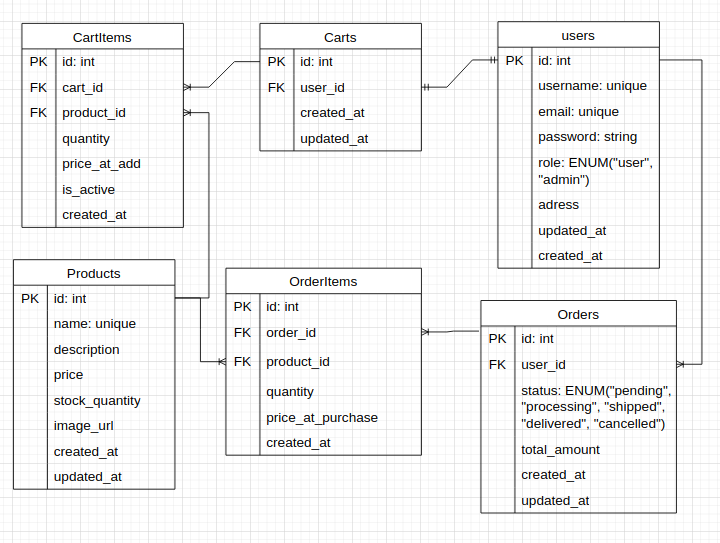
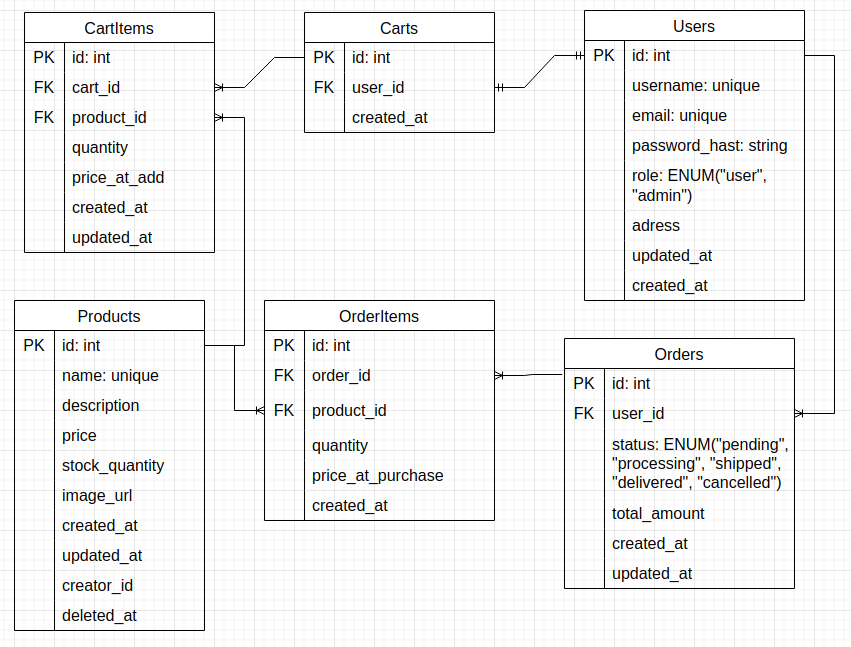
Actualizar README y diagrama entidad-relación

Changed region(s): [[0.0, 0.0, 1.0, 0.9724], [0.3056, 0.0295, 0.6417, 0.2947], [0.0306, 0.9429, 0.2444, 1.0]]

diff --git a/app/controllers/views/orders.py b/app/controllers/views/orders.py
@@ -22,8 +22,6 @@ orders_service = OrdersService()
 async def create_orders(
     current_user: Annotated[dict, Depends(get_current_user)]
 ):
-    # response = orders_service.save(current_user)
-    # response = orders_service.save_internal(current_user)
     response = orders_service.save_async(current_user)
     return JSONResponse(
         status_code=response.pop("status_code"),

diff --git a/app/controllers/views/products.py b/app/controllers/views/products.py
@@ -51,7 +51,7 @@ async def create_image_url(
 
 @router.get(
     "/products/admin",
-    tags=["products"],
+    tags=["admin"],
     response_model=ResponseSerializer
 )
 async def get_all_products_deleted(

diff --git a/README.md b/README.md
@@ -1,2 +1,221 @@
-# ecommerce
-Impera
+
+# E-Commerce
+
+## Descripción del Proyecto:
+Este proyecto tiene como objetivo principal diseñar e implementar la arquitectura backend para una plataforma de e-commerce.  La aplicación permitirá a empresas y usuarios individuales (admin) vender sus productos, mientras que los compradores (user) podrán explorar, adquirir y gestionar sus pedidos.
+
+## Requisitos Técnicos Cubiertos
+Este proyecto cumple con los siguientes requisitos técnicos clave:
+
+- Lenguaje de Programación y Framework: Utiliza Python y FastAPI, un framework de desarrollo web recomendado.
+- Mecanismo de Autenticación: Implementa un mecanismo de autenticación para asegurar las llamadas a la API.
+- Sistema de Colas: Integra Celery y Redis para el procesamiento asíncrono de órdenes, mejorando la escalabilidad y la experiencia del usuario.
+- Despliegue Local con Docker Compose: Todos los servicios utilizados (PostgreSQL, Redis, FastAPI, Celery) pueden desplegarse localmente utilizando Docker Compose (opcionalmente se pueden usar soluciones en la nube).
+- Diagrama UML de Base de Datos: Incluye un Diagrama Entidad-Relación para visualizar el diseño de la base de datos.
+- API Documentada con Swagger: La API está completamente documentada y es accesible a través de Swagger UI.
+- No se Requiere Frontend: El enfoque del proyecto es puramente el backend, por lo que no se incluye una interfaz de usuario.
+
+# **Tecnologías y lenguajes**
+En este proyecto, utilizaremos Python como lenguaje de programación, para la parte del servidor HTTP, emplearemos el frameworks (fastapi), la base de datos será PostgreSQL, las pruebas unitarias se llevarán a cabo utilizando pytest, la cola de tareas se llevarán a cabo utilizando Celery, el broker de colas será Redis, y por ultimo el estilo del código será pythonic, respetando el Zen de Python y siguiendo las convenciones de estilo definidas por PEP 8.
+
+### Construido
+* Lenguaje: Python 3.12.3
+* Base de dato:  PostgreSQL
+* Pruebas: Pytest
+* Frameworks:  FastAPI
+* Cola: Celery
+* Persistencia de la cola: redis
+
+### Entorno de trabajo y dependencias
+
+1. Clona el repositorio:
+```sh
+git clone https://github.com/DaggerAlmanza/ecommerce
+```
+
+2. Instalar virtualEnv e instalarlo
+Linux
+```sh
+$ virtualenv -p python3 venv
+o
+$ python3 -m venv venv
+```
+```sh
+$ source venv/bin/activate
+o
+$ . venv/bin/activate
+```
+Windows
+```sh
+$ python -m venv venv
+```
+```sh
+$ venv/Scripts/activate
+```
+3. Instalar requirements.txt
+```sh
+$ pip3 install -r requirements.txt
+```
+
+## Configuración
+
+1. Se debe configurar el archivo .env con las credenciales de acceso a la base de datos.
+```sh
+POSTGRES_USER=
+POSTGRES_PASSWORD=
+POSTGRES_DB=
+POSTGRES_HOST=
+```
+2. Ejecuta las pruebas:
+
+```sh
+pytest
+```
+
+3. Ejecuta el servidor:
+```sh
+$ uvicorn config:app --host=localhost --port=8000
+```
+
+4. Inicia el worker de Celery (en una terminal separada):
+```sh
+celery -A app.config.celery:celery_app worker --loglevel=info --queues=orders_queue --concurrency=1
+```
+
+5. Crea una red Docker para que los contenedores puedan comunicarse:
+```sh
+docker network create ecommerce
+```
+
+6. Inicia el contenedor de Redis:
+```sh
+docker run --name redis -p 6377:6379 -d redis redis-server --network ecommerce --port 6379
+```
+
+7. Inicia el contenedor de PostgreSQL:
+```sh
+docker run --name postgres-db -e POSTGRES_DB=ecommerce -e POSTGRES_USER=dagger -e POSTGRES_PASSWORD=dager9123 -p 5432:5432 -v postgres_data:/var/lib/postgresql/data --network ecommerce -d postgres:16-alpine
+```
+
+## Arquictetura del proyecto
+La arquitectura del proyecto está diseñada utilizando el modelo C4 para proporcionar una visión clara y concisa de los diferentes niveles del sistema.
+
+### Diagrama de contexto del sistema
+[![system-context-diagram.png](https://i.postimg.cc/nM89Xg5s/system-context-diagram.png)](https://postimg.cc/ctmLj9dZ)
+
+### Diagrama de contenedores
+
+[![container-diagram.png](https://i.postimg.cc/KzvPFXSx/container-diagram.png)](https://postimg.cc/d7pkmxVx)
+
+### Diagrama de componentes
+
+[![component-diagram.png](https://i.postimg.cc/RhhL7kXX/component-diagram.png)](https://postimg.cc/gL9hdT9Z)
+
+## Diagrama Entidad-Relación (DER)
+Este diagrama muestra la estructura de la base de datos y las relaciones entre las entidades.
+[![entity-relationship-diagram.png](https://i.postimg.cc/0rRpRT25/entity-relationship-diagram.png)](https://postimg.cc/sGmB50hb)
+
+## Rutas de la API
+La API expone los siguientes endpoints para interactuar con el sistema. Puedes acceder a la documentación interactiva de la API con Swagger UI en http://127.0.0.1:8000/docs.
+
+1. http://127.0.0.1:8000/api/v1/users
+
+GET: Obtener todos los usuarios (solo disponible para admin).
+POST: Crear un nuevo usuario (admin o user).
+
+2. http://127.0.0.1:8000/api/v1/users/{id}
+
+- PUT: Editar el propio usuario (no se pueden editar otros usuarios).
+- GET: Obtener el propio usuario por ID (user), o cualquier usuario por ID (admin).
+- DELETE: "Eliminar" un usuario del sistema (desactivación lógica para conservar el historial).
+
+3. http://127.0.0.1:8000/api/v1/users/admin
+
+- GET: Obtener todos los usuarios eliminados (solo disponible para admin).
+
+4. http://127.0.0.1:8000/api/v1/cart_items/admin
+
+- GET: Obtener todos los artículos de carritos creados (solo disponible para admin).
+
+5. http://127.0.0.1:8000/api/v1/products/admin
+
+- GET: Obtener todos los productos eliminados (solo disponible para admin).
+
+6. http://127.0.0.1:8000/api/v1/carts
+
+- GET: Obtener todos los carritos de compra (solo disponible para admin).
+- POST: Crear un carrito de compra (solo lo puede realizar el usuario actual).
+
+7. http://127.0.0.1:8000/api/v1/carts/{id}
+
+- GET: Ver el propio carrito o consultar cualquier carrito si eres admin.
+
+8. http://127.0.0.1:8000/api/v1/products
+
+- GET: Obtener todos los productos disponibles.
+- POST: Crear un nuevo producto (solo disponible para admin).
+
+9. http://127.0.0.1:8000/api/v1/products/upload_file
+
+- POST: Subir una imagen (simulando un servicio de almacenamiento como S3, pero almacenado localmente).
+
+10. http://127.0.0.1:8000/api/v1/products/{id} (disponible para admin salvo indicación contraria)
+
+- PUT: Editar un producto.
+- DELETE: Eliminar un producto del sistema (desactivación lógica).
+- GET: Obtener un producto por ID (disponible para todos).
+
+11. http://127.0.0.1:8000/api/v1/cart_items (disponible solo para usuario)
+
+- GET: Obtener todos los artículos del carrito del usuario.
+- POST: Crear un artículo en el carrito, validando la disponibilidad del producto.
+
+12. http://127.0.0.1:8000/api/v1/cart_items/{id}
+
+- PUT: Editar un artículo del carrito.
+- GET: Obtener un artículo del carrito por ID.
+- DELETE: Borrar un artículo del carrito.
+
+13. http://127.0.0.1:8000/api/v1/order_items
+
+- GET: Obtener todos los artículos de las órdenes disponibles en la base de datos (solo admin).
+
+14. http://127.0.0.1:8000/api/v1/order_items/{id}
+
+- GET: Obtener un artículo de orden por ID (solo admin).
+
+15. http://127.0.0.1:8000/api/v1/order_items/user
+
+- GET: Obtener todos los artículos de las órdenes disponibles para el usuario actual.
+
+16. http://127.0.0.1:8000/api/v1/orders
+
+- GET: Obtener todas las órdenes (solo admin).
+- POST: Crear una orden (disponible para user). Este proceso se encola (FIFO) y ejecuta una transacción que:
+    * Toma todos los artículos del carrito del usuario.
+    * Crea la orden y sus artículos asociados.
+    * Verifica la existencia y disponibilidad de los productos.
+    * Descuenta el stock de los productos.
+    * Elimina los artículos del carrito.
+
+17. http://127.0.0.1:8000/api/v1/orders/{task_id} (o similar, para verificar el estado de la tarea encolada)
+
+- GET: Verificar el estado de la tarea de creación de orden.
+
+18. http://127.0.0.1:8000/api/v1/orders/tasks/{task_id} (si tienes una ruta específica para el estado de tareas)
+
+- GET: Verificar el estado de la tarea.
+
+19. http://127.0.0.1:8000/api/v1/orders/{id}
+
+- GET: Obtener una orden por ID.
+- PUT: Editar el estado de una orden (solo por parte de admin).
+
+20. http://127.0.0.1:8000/token
+
+- GET: Obtener el token de autenticación actual del usuario.
+- POST: Iniciar sesión para obtener un nuevo token.
+
+21. http://127.0.0.1:8000/
+
+- GET: Verificar que el servicio está operativo (up).
